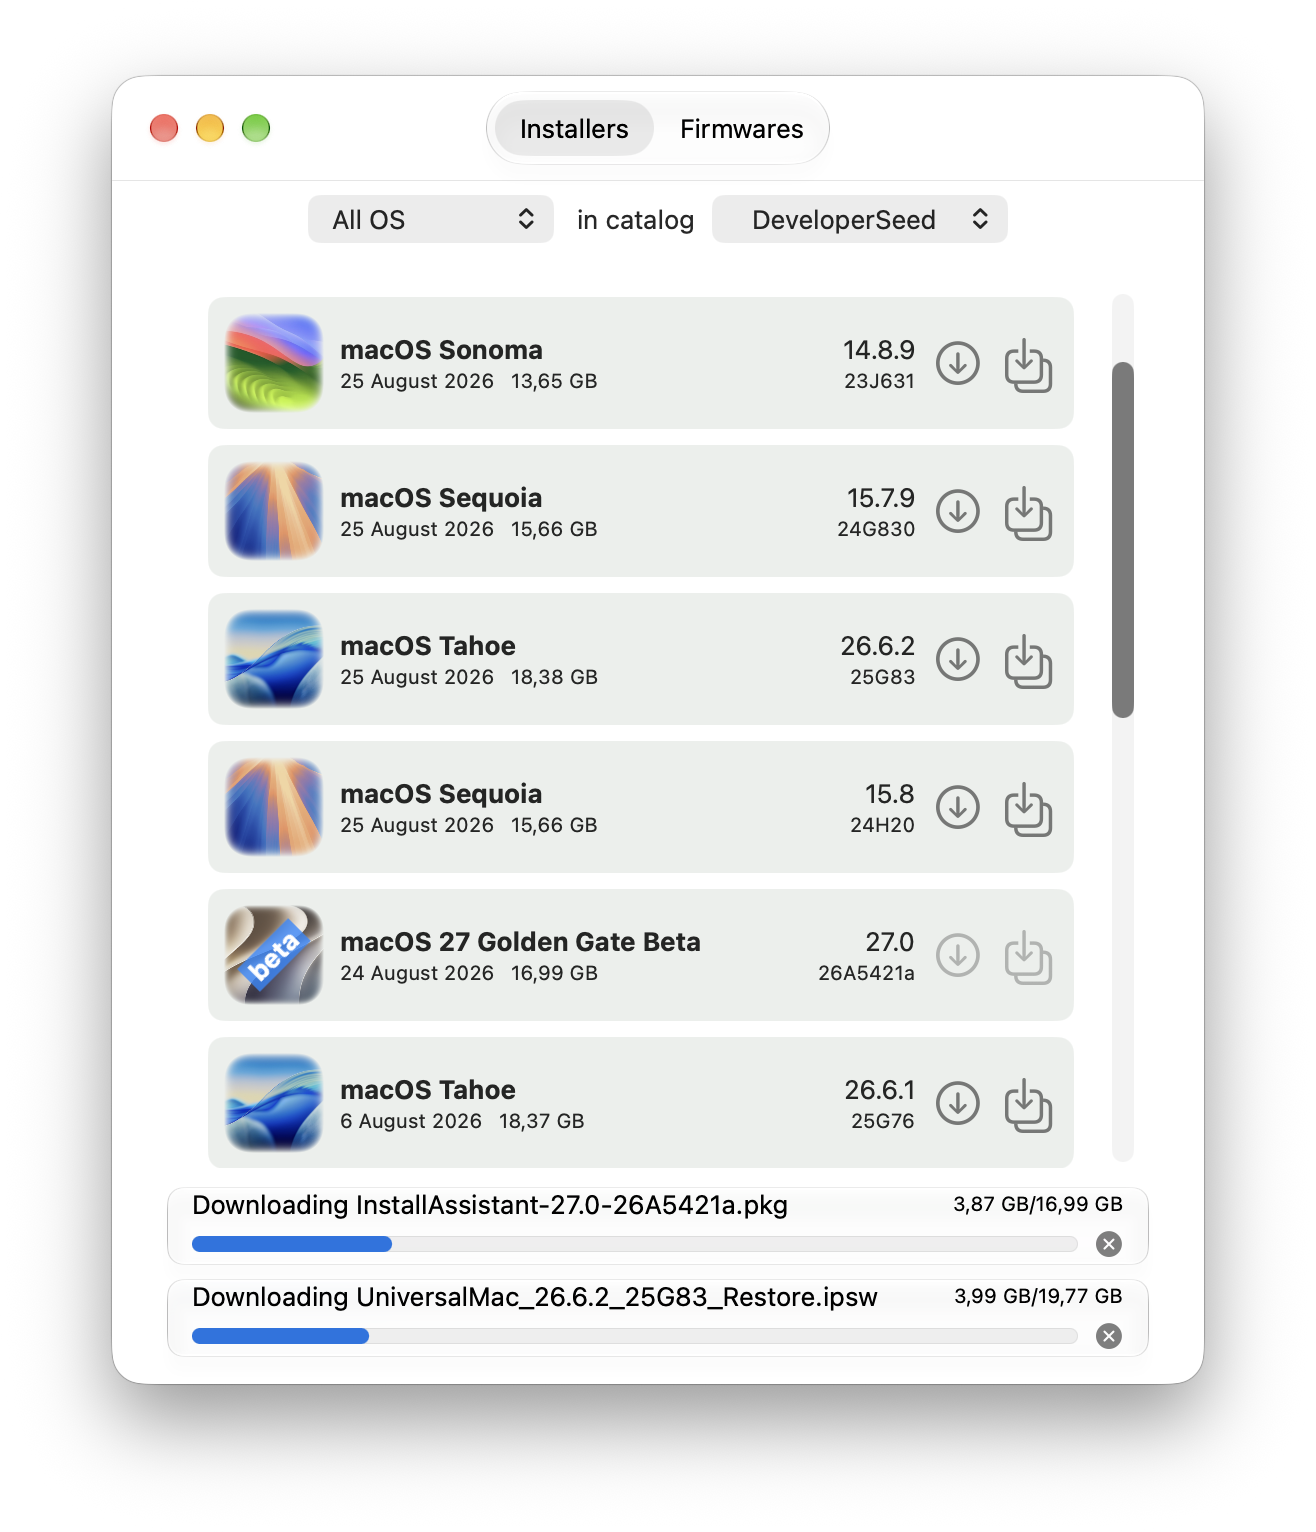
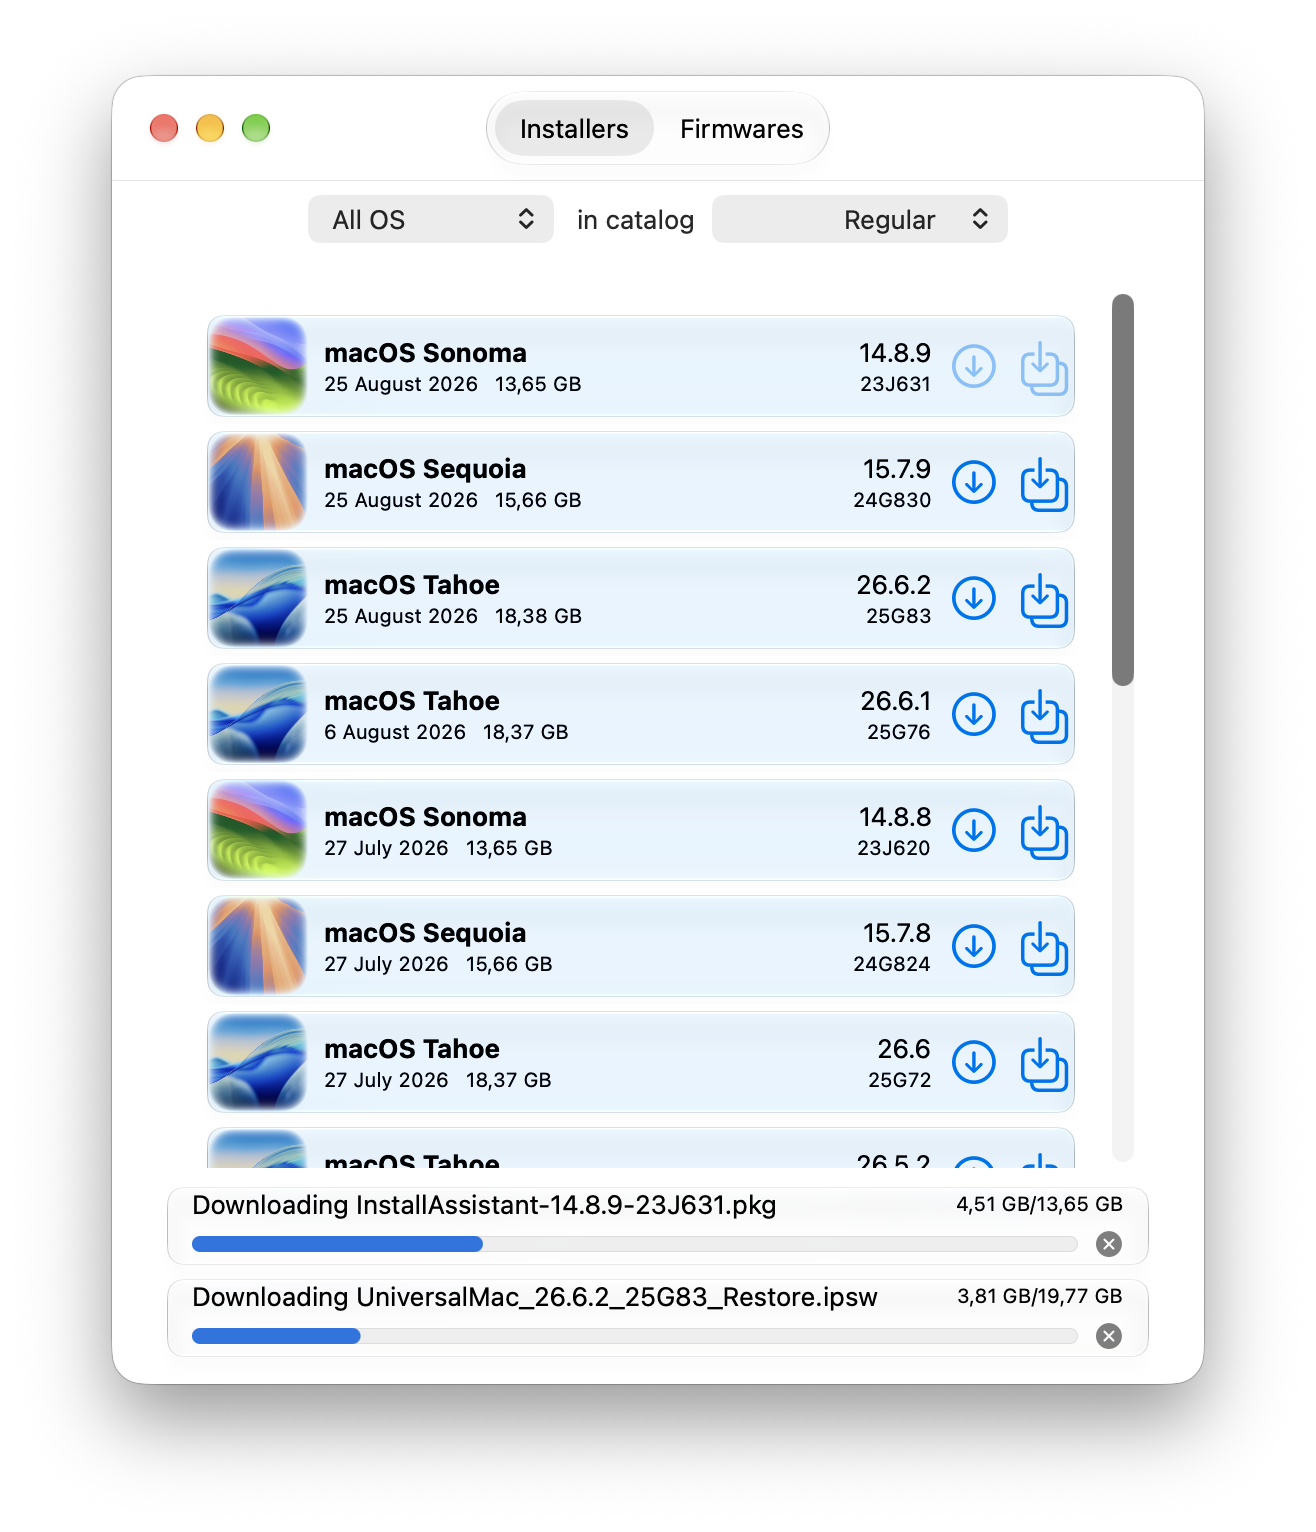
Support macOS 15 and refine glass UI

diff --git a/DownloadFullInstaller/Views/PreferencesView.swift b/DownloadFullInstaller/Views/PreferencesView.swift
@@ -17,77 +17,7 @@ struct PreferencesView: View {
     let labelWidth = 100.0
     var body: some View {
         VStack(spacing: 0) {
-            Form {
-                VStack(alignment: .trailing) {
-//                HStack(alignment: .center) { Text("\n\n") }
-
-                    HStack(alignment: .center) {
-                        // Three ways to hide label text in a Picker:
-                        // - empty string as first parameter: Picker("", selection: $osNameID) {
-                        // - label: EmptyView() as second parametePicker(selection: $osNameID, label: EmptyView()) {
-                        // - .labelsHidden() as View property: Picker("osNameID", selection: $osNameID) {
-
-                        if selectedTab != 0 { Spacer() }
-
-                        // onChange is attached here (outside any tab conditional) so that
-                        // osNameID changes on the Firmwares tab also reload the installer catalog.
-                        if #available(macOS 14.0, *) {
-                            Picker("osNameID", selection: $osNameID) {
-                                ForEach(OsNameID.allCases.filter { $0 != .osLegacy || selectedTab != 1 }) { osName in
-                                    Text(osName.rawValue).font(.body)
-                                }
-                            }
-                            .fixedSize(horizontal: selectedTab != 0, vertical: false)
-                            .onChange(of: osNameID) {
-                                handleOsNameIDChange()
-                            }
-                        } else {
-                            Picker("osNameID", selection: $osNameID) {
-                                ForEach(OsNameID.allCases.filter { $0 != .osLegacy || selectedTab != 1 }) { osName in
-                                    Text(osName.rawValue).font(.body)
-                                }
-                            }
-                            .fixedSize(horizontal: selectedTab != 0, vertical: false)
-                            .onChange(of: osNameID) { _ in
-                                handleOsNameIDChange()
-                            }
-                        }
-
-                        if selectedTab == 0 {
-                            HStack(alignment: .center) {
-                                Text(NSLocalizedString(" in catalog", comment: "")).font(.body)
-                            }
-
-                            if #available(macOS 14.0, *) {
-                                Picker(selection: $seedProgram, label: EmptyView()) {
-                                    ForEach(SeedProgram.allCases) { program in
-                                        HStack {
-                                            Spacer()
-                                            Text(program.rawValue).font(.body)
-                                        }
-                                    }
-                                }
-                                .onChange(of: seedProgram) { sucatalog.load()
-                                }
-                            } else {
-                                Picker(selection: $seedProgram, label: EmptyView()) {
-                                    ForEach(SeedProgram.allCases) { program in
-                                        HStack {
-                                            Spacer()
-                                            Text(program.rawValue).font(.body)
-                                        }
-                                    }
-                                }
-                                .onChange(of: seedProgram) { _ in
-                                    sucatalog.load()
-                                }
-                            }
-                        } else {
-                            Spacer()
-                        }
-                    }
-                }
-            }
+            Form { formContent }
             .frame(
                 width: 400.0,
                 height: 24.0,
@@ -99,6 +29,76 @@ struct PreferencesView: View {
         }
         .sheet(isPresented: $showLegacyWindow) {
             LegacyDownloadView()
+        }
+    }
+
+    private var formContent: some View {
+        VStack(alignment: .trailing) {
+            HStack(alignment: .center) {
+                if selectedTab != 0 {
+                    Spacer()
+                }
+
+                osNamePicker
+
+                if selectedTab == 0 {
+                    Text(NSLocalizedString(" in catalog", comment: ""))
+                        .font(.body)
+                    seedProgramPicker
+                } else {
+                    Spacer()
+                }
+            }
+        }
+    }
+
+    private var osNamePicker: some View {
+        let picker = Picker("osNameID", selection: $osNameID) {
+            ForEach(OsNameID.allCases.filter { $0 != .osLegacy || selectedTab != 1 }) { osName in
+                Text(osName.rawValue).font(.body)
+            }
+        }
+        .fixedSize(horizontal: selectedTab != 0, vertical: false)
+
+        return osNamePickerWithChangeHandler(picker)
+    }
+
+    @ViewBuilder
+    private func osNamePickerWithChangeHandler<Content: View>(_ picker: Content) -> some View {
+        if #available(macOS 14.0, *) {
+            picker.onChange(of: osNameID) {
+                handleOsNameIDChange()
+            }
+        } else {
+            picker.onChange(of: osNameID) { _ in
+                handleOsNameIDChange()
+            }
+        }
+    }
+
+    private var seedProgramPicker: some View {
+        let picker = Picker(selection: $seedProgram, label: EmptyView()) {
+            ForEach(SeedProgram.allCases) { program in
+                HStack {
+                    Spacer()
+                    Text(program.rawValue).font(.body)
+                }
+            }
+        }
+
+        return seedProgramPickerWithChangeHandler(picker)
+    }
+
+    @ViewBuilder
+    private func seedProgramPickerWithChangeHandler<Content: View>(_ picker: Content) -> some View {
+        if #available(macOS 14.0, *) {
+            picker.onChange(of: seedProgram) {
+                sucatalog.load()
+            }
+        } else {
+            picker.onChange(of: seedProgram) { _ in
+                sucatalog.load()
+            }
         }
     }
 

diff --git a/DownloadFullInstaller/Views/GlassEffects+Extensions.swift b/DownloadFullInstaller/Views/GlassEffects+Extensions.swift
@@ -9,48 +9,71 @@ import SwiftUI
 extension View {
     /// Applies the macOS 26+ glass card effect with a rounded rectangle shape.
     /// Falls back to a subtle material background on earlier systems.
+    @ViewBuilder
     func glassCard(cornerRadius: CGFloat = 10) -> some View {
-//        if #available(macOS 26.0, *) {
-        glassEffect(.regular, in: RoundedRectangle(cornerRadius: cornerRadius))
-//        } else {
-//            self
-//                .background(
-//                    RoundedRectangle(cornerRadius: cornerRadius)
-//                        .fill(.thinMaterial)
-//                )
-//        }
+        if #available(macOS 26.0, *) {
+            glassEffect(.regular, in: RoundedRectangle(cornerRadius: cornerRadius))
+        } else {
+            self
+                .background(
+                    RoundedRectangle(cornerRadius: cornerRadius)
+                        .fill(.thinMaterial)
+                )
+        }
     }
 
     /// Applies a macOS 26+ glass effect suitable for List rows.
     /// Falls back to a subtle material background with rounded corners on earlier systems.
+    @ViewBuilder
     func glassRow(cornerRadius: CGFloat = 8) -> some View {
-//        if #available(macOS 26.0, *) {
-//            self
-//                .listRowBackground(Color.clear)
-//                .glassEffect(.regular, in: RoundedRectangle(cornerRadius: cornerRadius)
-//                )
-//        } else {
-        padding(8)
-            .background(
-                RoundedRectangle(cornerRadius: cornerRadius)
-//                        .fill(.quaternary)
-                    .fill(.thinMaterial)
-            )
-            .listRowBackground(Color.clear)
-//        }
+        if #available(macOS 26.0, *) {
+            self
+                .listRowBackground(Color.clear)
+                .glassEffect(.regular, in: RoundedRectangle(cornerRadius: cornerRadius))
+        } else {
+            padding(8)
+                .background(
+                    RoundedRectangle(cornerRadius: cornerRadius)
+                        .fill(.thinMaterial)
+                )
+                .listRowBackground(Color.clear)
+        }
+    }
+
+    /// Applies a soft colored background to a List row.
+    /// On macOS 26+ uses a glass tint; on earlier systems uses a semi-transparent color fill.
+    @ViewBuilder
+    func coloredRow(_ color: Color = .blue, opacity: Double = 0.08, cornerRadius: CGFloat = 8) -> some View {
+        if #available(macOS 26.0, *) {
+            self
+                .listRowBackground(Color.clear)
+                .glassEffect(.regular.tint(color.opacity(opacity)), in: RoundedRectangle(cornerRadius: cornerRadius))
+        } else {
+            padding(8)
+                .background(
+                    RoundedRectangle(cornerRadius: cornerRadius)
+                        .fill(color.opacity(opacity))
+                        .overlay(
+                            RoundedRectangle(cornerRadius: cornerRadius)
+                                .fill(.thinMaterial).opacity(0.7)
+                        )
+                )
+                .listRowBackground(Color.clear)
+        }
     }
 
     /// Applies a subtle macOS 26+ glass effect.
     /// Falls back to a thin material background on earlier systems.
+    @ViewBuilder
     func glassSubtle(cornerRadius: CGFloat = 8) -> some View {
-//        if #available(macOS 26.0, *) {
-        glassEffect(.regular, in: RoundedRectangle(cornerRadius: cornerRadius))
-//        } else {
-//            self
-//                .background(
-//                    RoundedRectangle(cornerRadius: cornerRadius)
-//                        .fill(.thinMaterial)
-//                )
-//        }
+        if #available(macOS 26.0, *) {
+            glassEffect(.regular, in: RoundedRectangle(cornerRadius: cornerRadius))
+        } else {
+            self
+                .background(
+                    RoundedRectangle(cornerRadius: cornerRadius)
+                        .fill(.thinMaterial)
+                )
+        }
     }
 }

diff --git a/DownloadFullInstaller/Views/InstallerView.swift b/DownloadFullInstaller/Views/InstallerView.swift
@@ -128,6 +128,8 @@ struct InstallerView: View {
                     .disabled(multiDownloadManager.isDownloading(filename: installerFilename))
                     .buttonStyle(.borderless)
                     .controlSize(.mini)
+                    .foregroundColor(.blue)
+                    .opacity(multiDownloadManager.isDownloading(filename: installerFilename) ? 0.4 : 1.0)
 
                     Button(action: {
                         createInstallerApp()
@@ -144,6 +146,8 @@ struct InstallerView: View {
                     .disabled(multiDownloadManager.isDownloading(filename: installerFilename) || isCreatingInstaller)
                     .buttonStyle(.borderless)
                     .controlSize(.mini)
+                    .foregroundColor(.blue)
+                    .opacity(multiDownloadManager.isDownloading(filename: installerFilename) || isCreatingInstaller ? 0.4 : 1.0)
 
                     // Context menu: copy to clipboard the URL of the specified InstallAssistant.pkg
                 }
@@ -162,7 +166,7 @@ struct InstallerView: View {
                         Text(String(format: NSLocalizedString("Copy %@ %@ (%@) %@ URL", comment: ""), product.osName ?? "", product.productVersion ?? "", product.buildVersion ?? "", package))
                     }
                 }
-                .glassRow()
+                .coloredRow()
                 // Handle multiple different alerts in a single view using appAlert extension
                 .appAlert(item: $activeAlert) { alertType in
                     switch alertType {
@@ -310,6 +314,8 @@ struct FirmwareView: View {
             .disabled(multiDownloadManager.isDownloading(filename: firmware.filename))
             .buttonStyle(.borderless)
             .controlSize(.mini)
+            .foregroundColor(.blue)
+            .opacity(multiDownloadManager.isDownloading(filename: firmware.filename) ? 0.4 : 1.0)
 
             Button(action: {
                 if let url = URL(string: "https://support.apple.com/en-us/108900") {
@@ -332,7 +338,7 @@ struct FirmwareView: View {
                 Text(String(format: NSLocalizedString("Copy %@ %@ (%@) %@ URL", comment: ""), firmware.osName, firmware.productVersion, firmware.buildVersion, firmware.filename))
             }
         }
-        .glassRow()
+        .coloredRow()
         .appAlert(item: $activeAlert) { alertType in
             switch alertType {
             case .replaceFile:

diff --git a/README.md b/README.md
@@ -1,12 +1,12 @@
 # Download Full Installer
 
 
-![Platform](https://img.shields.io/badge/macOS-26+-orange.svg)
+![Platform](https://img.shields.io/badge/macOS-15+-orange.svg)
 ![Swift](https://img.shields.io/badge/Swift-6-lavender.svg)
 ![Xcode](https://img.shields.io/badge/Xcode-16+-green.svg)
 ![GitHub Downloads](https://img.shields.io/github/downloads/perez987/DownloadFullInstaller/total?style=flat&label=Downloads&color=blue)
 
-**Download Full Installer** is a macOS application written in SwiftUI that downloads PKG installers or IPSW firmwares for the **Install macOS Big Sur** application and newer. Runs on macOS 26 Tahoe and later.
+**Download Full Installer** is a macOS application written in SwiftUI that downloads PKG installers or IPSW firmwares for the **Install macOS Big Sur** application and newer. Runs on macOS 15 Sequoia and later.
 
 |     |
 | --- |
@@ -14,15 +14,16 @@
 
 ### Preface
 
-As of June 2025, [DownloadFullInstaller](https://github.com/scriptingosx/DownloadFullInstaller) stopped its development. For over three years, my repository was a fork of the original. However, after the original was archived, I created a new repo as standalone (<em>not forked</em>) version.<br>
+As of June 2025, [DownloadFullInstaller](https://github.com/scriptingosx/DownloadFullInstaller) stopped its development. For over three years, my repository was a fork of the original. However, after the original was archived, I created a new repo as standalone (<em>not forked</em>) version.
+
 This repo exists to keep "Download Full Installer" alive and growing. Picking up where the original left off, merging community PRs and adding new features. I'll keep this project active and up to date as long as it is useful to other users. Full credit for the original idea and architecture goes to <em>scriptingosx</em>.
 
 ### Features
 
 - Target and requirements
-   - Minimum macOS 26 Tahoe (runs on macOS 27 Golden Gate)
+   - Minimum macOS 15 Sequoia (runs on macOS 26 Tahoe and later)
    - Swift 6
-   - Xcode 16 requires macOS 26 Tahoe or newer
+   - Xcode 16+
 - Main UI
    - Add Silicon firmwares tab to download IPSW files to restore T2 or Silicon Macs
 - Preferences

diff --git a/CLAUDE.md b/CLAUDE.md
@@ -11,13 +11,13 @@ This file is automatically read by GitHub Copilot coding agents (and Claude) whe
 
 There is **one application target** in this repository:
 
-- `DownloadFullInstaller` → requires macOS 26 Tahoe or later.
+- `DownloadFullInstaller` → requires macOS 15 Sequoia or later.
 
 ## Tech Stack
 
 - **Language**: Swift 6
 - **UI framework**: SwiftUI (macOS only)
-- **Minimum macOS**: 26 Tahoe
+- **Minimum macOS**: 15 Sequoia
 - **Build tool**: Xcode 16+
 - **Auto-updater**: [Sparkle](https://sparkle-project.org/) via Swift Package Manager (`Updater/UpdateController.swift`)
 - **Dock progress**: `DockProgress-4.3.1` (local copy, not a package dependency)
@@ -61,7 +61,7 @@ There is currently no automated test target (XCTest or otherwise). Validation is
 When making changes:
 
 - Ensure the project **compiles without errors or warnings** in Xcode.
-- Verify the relevant user-facing flow works at runtime on macOS 26+.
+- Verify the relevant user-facing flow works at runtime on macOS 15+.
 
 ## Localization
 
